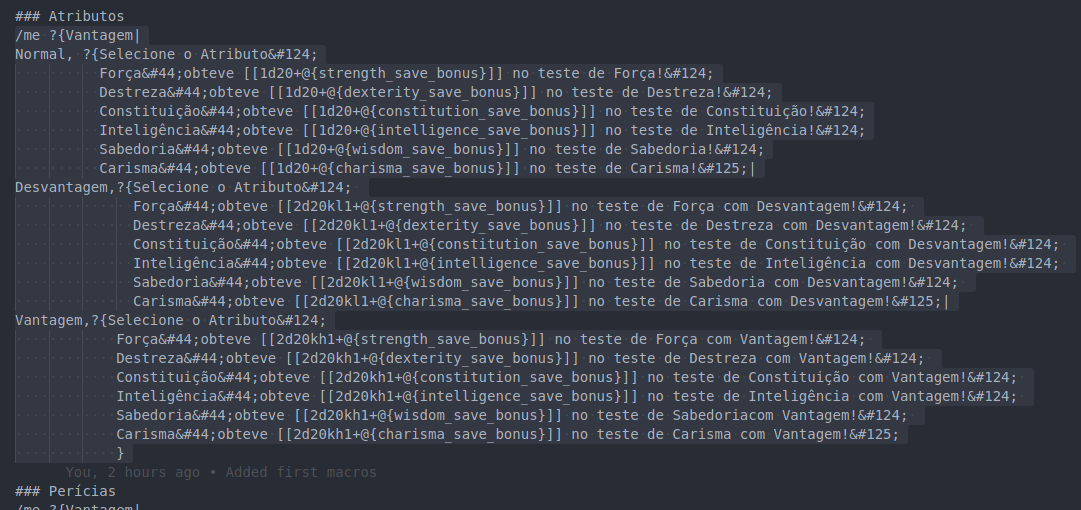
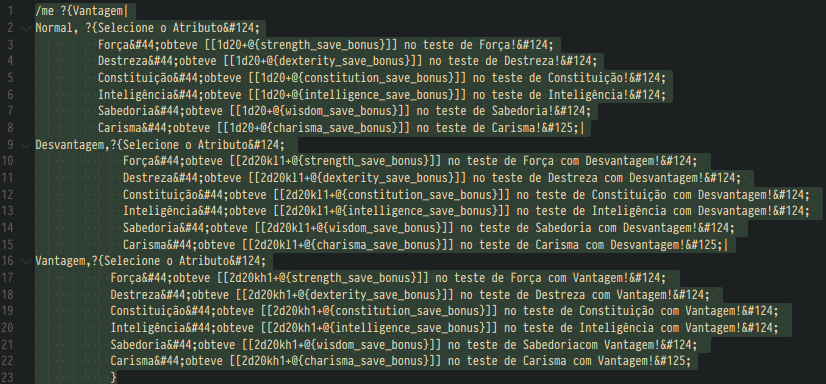
Refatorado, e README atualizado

diff --git a/README.md b/README.md
@@ -7,7 +7,7 @@ A lista dos macros inclusos no Macros_roll20.txt podem ser vistos na [lista de m
 Guia para iniciantes
 =================
 
-Os macros estão sempre indicados por **###Nome do macro**, deve-se copiar o conteúdo todo abaixo desse marcador até o final (espaço anterior ao macro seguinte), como por exemplo:
+Os macros estão sempre indicados pelo nome do arquivo **/macros/nome-do-macro.txt** (com exeção aos macros extras), deve-se copiar o conteúdo todo do arquivo até o final, como por exemplo:
 
 ![iniciante](images/iniciante.png)
 
@@ -31,60 +31,55 @@ Ao salvar o macro (pressionar o botão 'v'), selecionar 'Show in Macro Bar' e te
 
 Inicialmente o nome do macro será da forma *charname : habilidade*, para alterar cor e nome basta clicar com o botão direito nesse botão.
 
-> Tenha em mente que os macros abaixo do marcador 'GERAIS' (no arquivo *.txt) não precisam ser editados, porém os que antecedem esse marcador, foram criados especificamente para personagens, assim para serem utilizados por outros personagens, é necessário editar os pedaços que contenham @{Zikko Bruhnog | atr}, por exemplo, para @{nome do seu personagem | atr}
+> Tenha em mente que os macros do arquivo exemplos, foram criados para personagens especificos, assim para serem utilizados por outros personagens, é necessário editar os pedaços que contenham @{Zikko Bruhnog | atr}, por exemplo, para @{\<nome do seu personagem\> | atr}
 
 
 Exemplos de alguns macros
 =================
-### Perícias
+## Perícias
 
 A caixa seletora funciona basicamente da mesma forma para o macro de *Atributos*
+| ![img6](images/img6.png)                                      | ![img5](images/img5.png) |
+| ------------------------------------------------------------- | ------------------------ |
+|  ![img7](images/img7.png) <blockquote>No chat</blockquote> |                          |
 
-![img6](images/img6.png)
 
-![img5](images/img5.png)
 
-No chat aparecerá da seguinte forma:
 
-![img7](images/img7.png)
 
-### Imagem
 
-![](images/img8.png)
+## Imagem
 
-No chat:
 
-![](images/img9.png)
 
-### Texto
+| ![](images/img8.png) | ![](images/img9.png) <blockquote>No chat</blockquote> |
+| -------------------- | ----------------------------------------------------- |
+|                      |                                                       |
 
-![img10](images/img10.png)
 
-No chat:
 
-![](images/img11.png)
+## Texto
 
-### XdY+bonus
+| ![](images/img10.png) | ![](images/img11.png) <blockquote>No chat</blockquote> |
+| --------------------- | ------------------------------------------------------ |
+|                       |                                                        |
+## XdY+bonus
 
 O macro de d20+bonus funciona de forma similar
 
-![](images/img12.png)
-
-![](images/img13.png)
-
-![](images/img14.png)
+| ![](images/img12.png) | ![](images/img13.png) |
+| --------------------- | --------------------- |
+| ![](images/img14.png) |                       |
 
 No chat:
 
 ![](images/img15.png)
 
-### Pedágio aos Mortos
+## Pedágio aos Mortos
 
-![](images/img16.png)
-
-No chat:
-
-![](images/img17.png)
+| ![](images/img16.png) | ![](images/img17.png) <blockquote>No chat</blockquote> |
+| --------------------- | ------------------------------------------------------ |
+|                       |                                                        |
 
 Lista de Macros
 =================
@@ -93,10 +88,12 @@ Lista de Macros
 - Perícias: para rolagem de perícias com seletor para vantagem, desvantagem ou teste normal
 - d20+bonus: para agilizar rolagens de d20 com bônus quaisquer
 - XdY+bonus: para facilitar a rolagem de uma quantidade qualquer de dados com número arbitrário de dados com bonus
+  
+#### Extra
 - Imagem: para otimizar o envio de imagens pelo chat
 - Texto: para enviar um texto no chat com formato diferente
 
-#### Para jogadores
+#### Exemplos (/macros/Exemplos.txt)
 
 + Pedágio aos mortos (toll the dead): adicionar a magia no roll20, que não está presente na versão grátis, possibilita a rolagem se o inimigo levou dano ou não (1d8 ou 1d12) e rola o número de dados de dano permitidos para cada nível, além de mostrar a CD do teste de resistência, tipo de dano e alcance
 + Mordida do Adran: macro desenvolvido para que o personagem Vampiro da campanha pudesse realizar sua fatídica mordida: 1d20 + modificador de força + bônus de proficiência, dando 1d6 + modificador de força de dano necrótico
